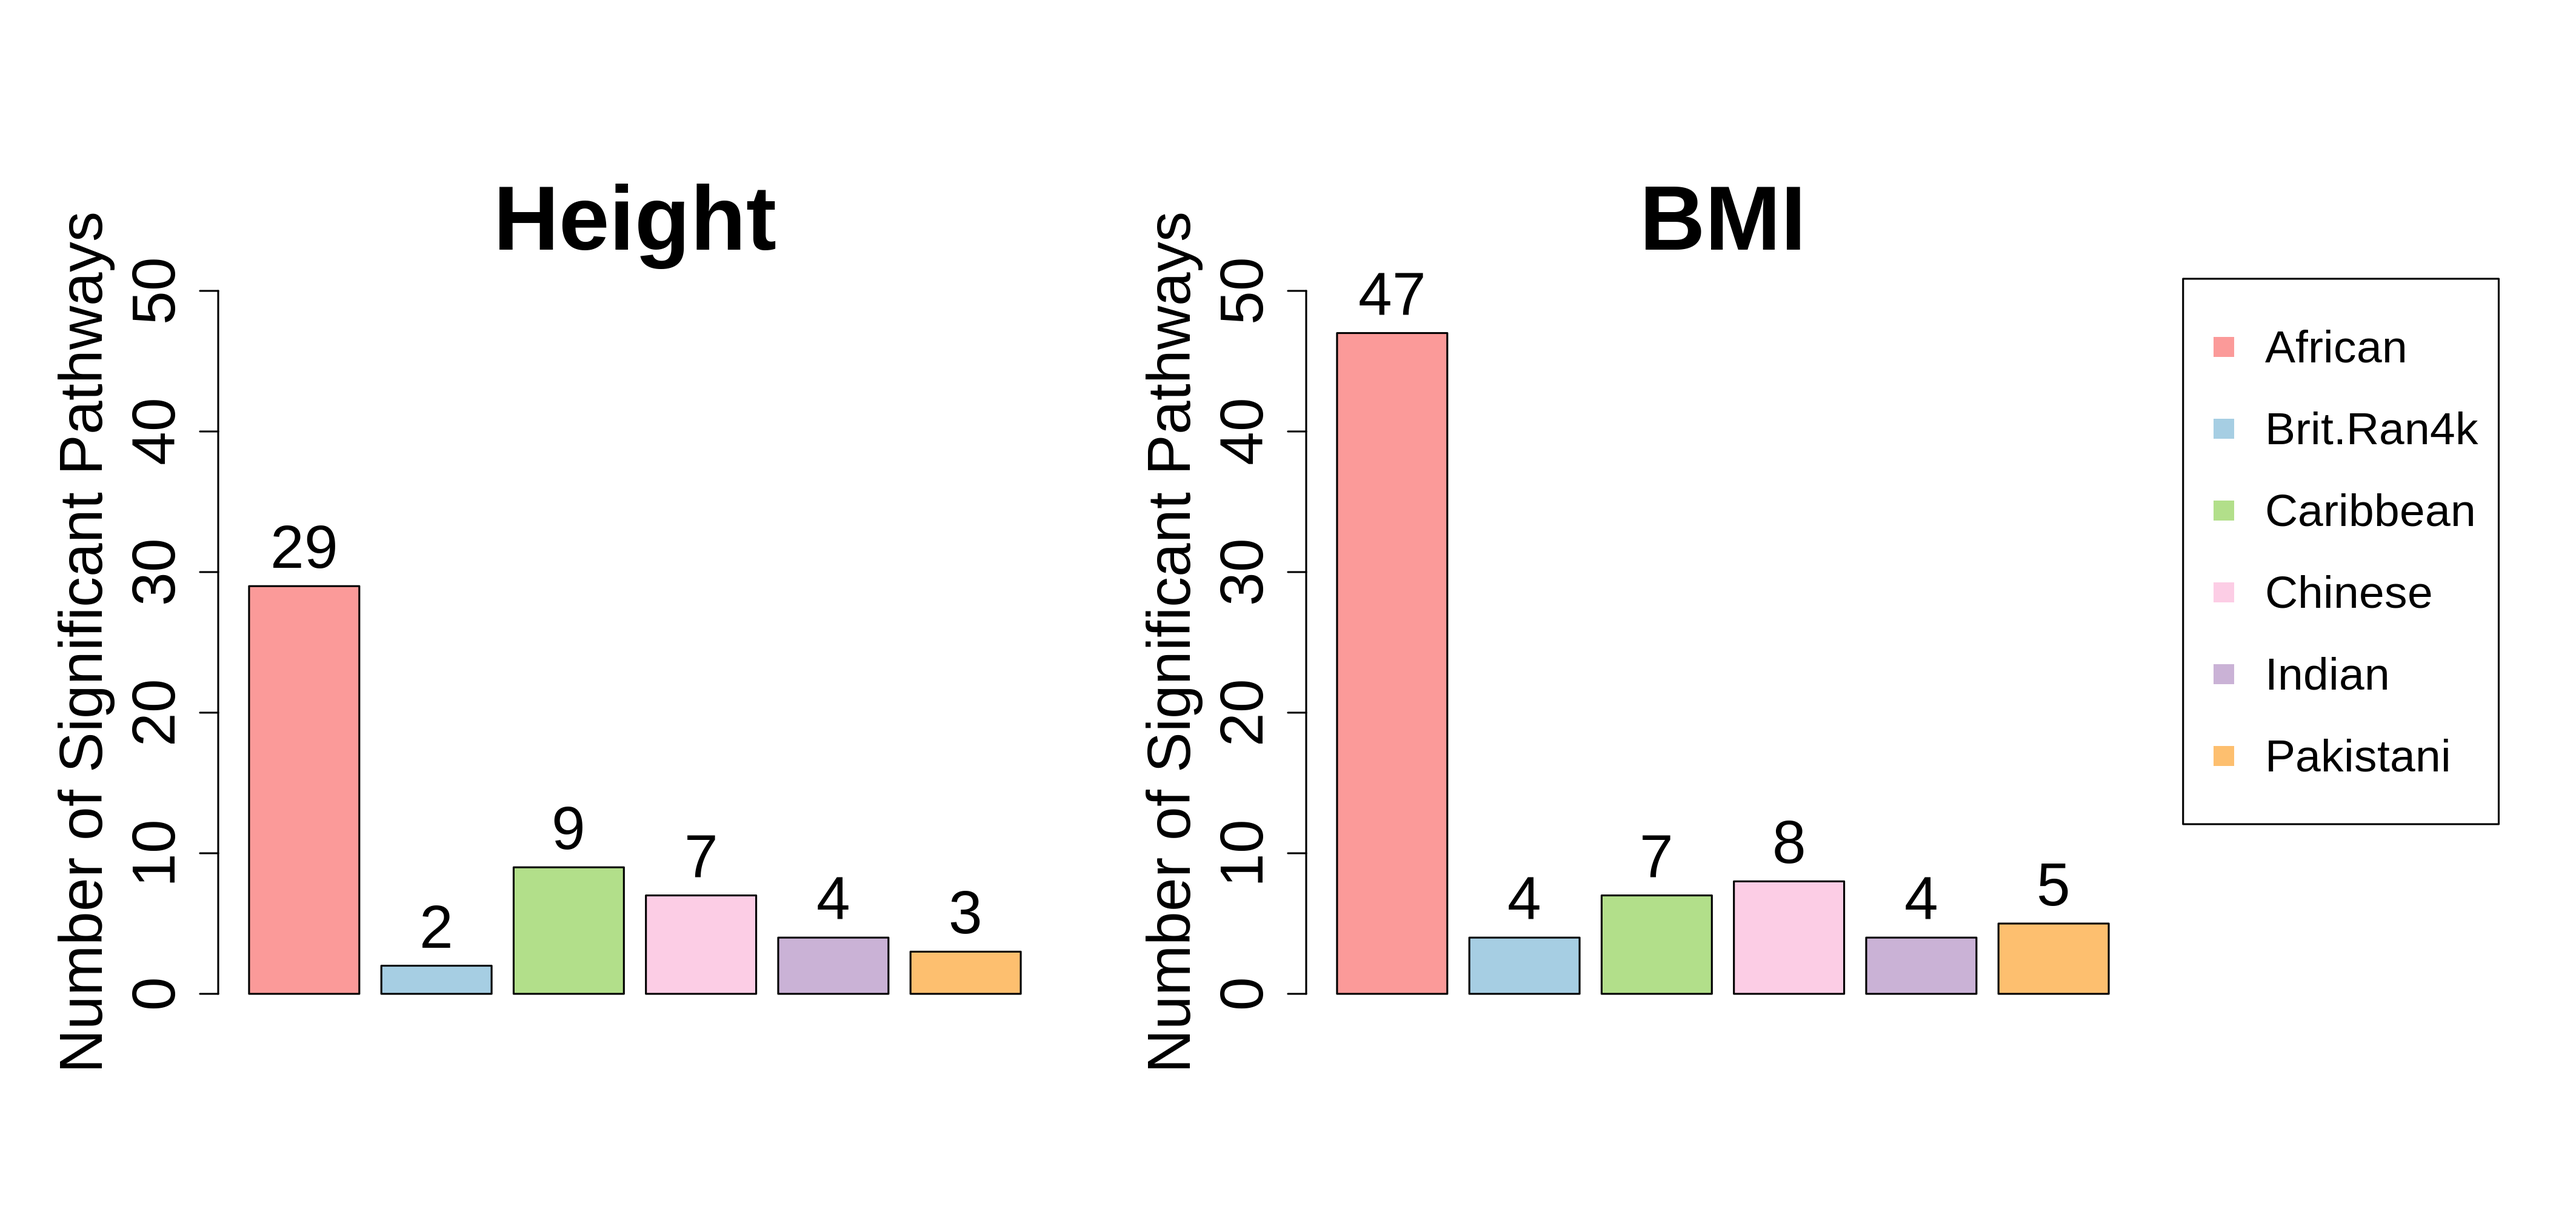
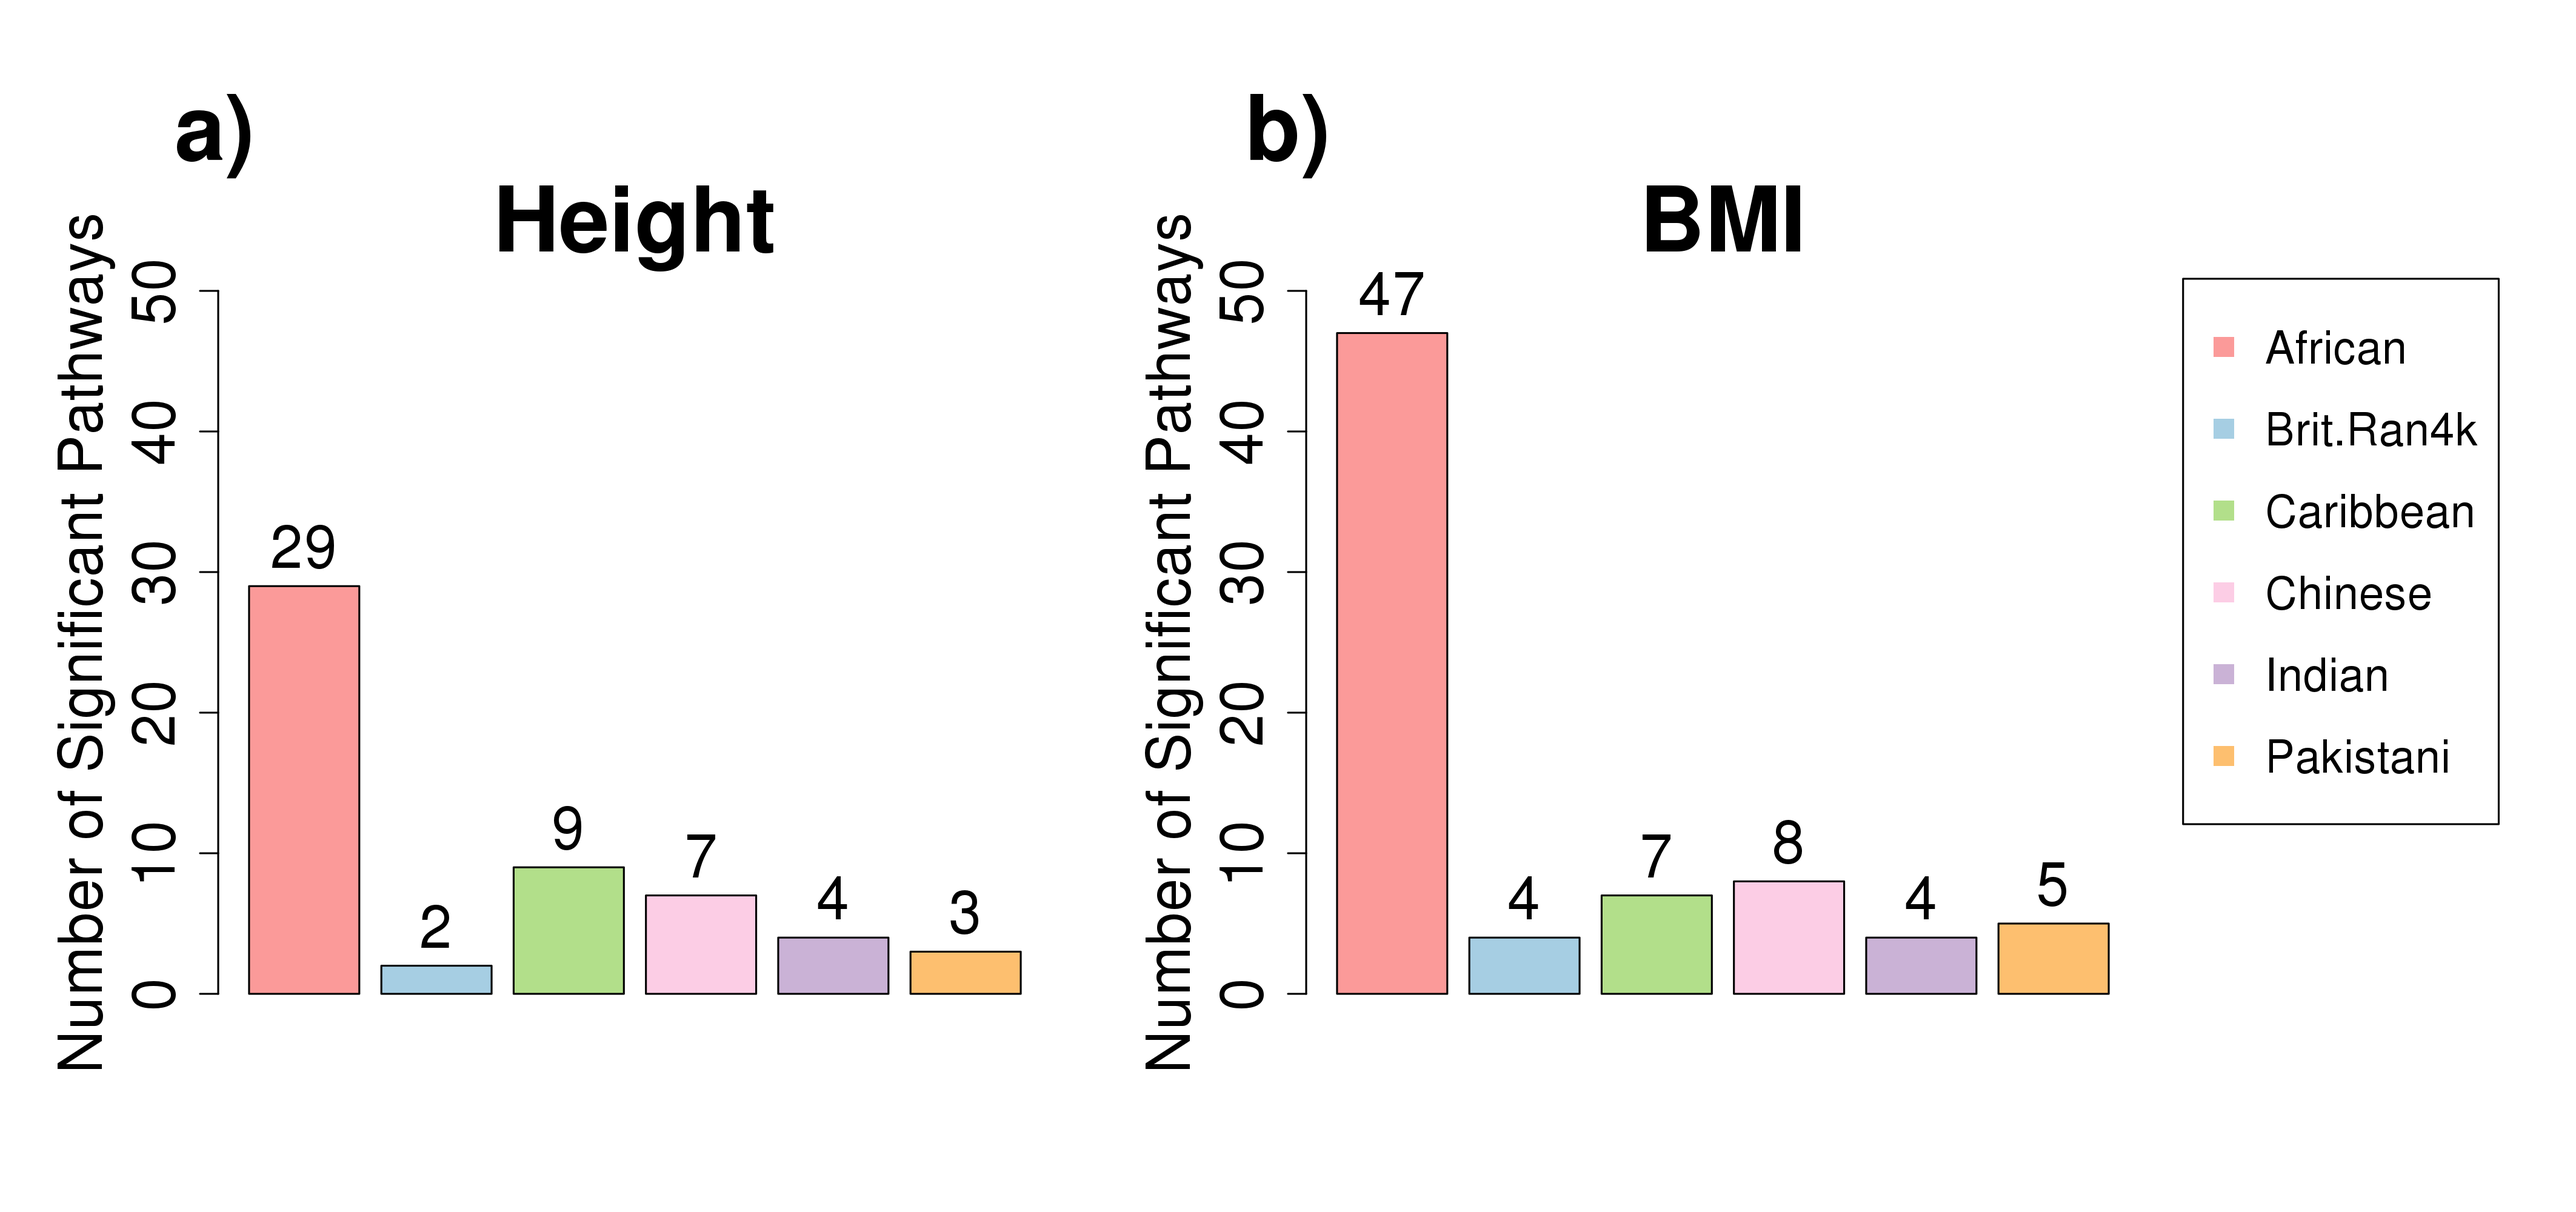
edits (Main and Supplementary Figure sub labels)

diff --git a/Main.tex b/Main.tex
@@ -196,8 +196,8 @@ We apply MAPIT-R to genotype data and the quantitative traits height and body ma
 -prtsctnrchk
 
 -fgrs:a)\&b)thngs
-mn: fgr1, fgr2, fgr3, fgr4, fgr5+6, fgr8, fgr10, fgr11
-suppl: pca1, brplt2, qqplt4, htplt5, brplt9, htplt10a&b, qqplt11
+mn: fgr1, fgr2, fgr3, fgr4, fgr5+6, fgr8, fgr10, fgr11 (whnrdy)
+suppl: pca1, brplt2, qqplt4, htplt5, brplt9, htplt10a\&b, qqplt11
 
 -drop HLA-related pathways for all of these analyses?
 
@@ -248,7 +248,7 @@ The specific pathways with significant marginal epistasis signals in the African
 \centering
 \hspace*{-.9cm}
 \includegraphics[scale=.45]{Images/Main/InterPath_Main_Figure_Barplots_KEGG_vs4.png}
-\caption[TBD]{\textbf{Numbers of KEGG pathways that have significant marginal epistasis, per subgroup}. The figure shows the numbers of genome-wide significant pathways found from running MAPIT-R on height and BMI in the KEGG database within each of the UKB subgroups.  Genome-wide significance was determined by using Bonferroni-corrected $p$-value thresholds based on the number of pathways tested in each database + phenotype + subgroup combination (Supplementary Table \ref{InterPath-Supp-Table-UKBPopStats}). Across all database + phenotype combinations, the African subgroup has the largest numbers of significant pathways. For lists of the specific significant pathways per database + phenotype + subgroup combination, see Supplementary Tables \ref{InterPath-Supp-Table-TopPathways-AllPaths-AllPhenos-Caption}\textcolor{blue}{a-d}. Results from running MAPIT-R with REACTOME database pathways can be found in Supplementary Figure \ref{InterPath-Supp-Figure-Barplots-REACTOME}.}
+\caption[TBD]{\textbf{Numbers of KEGG pathways that have significant marginal epistasis, per subgroup}. The figure shows the numbers of genome-wide significant pathways found from running MAPIT-R on (a) height and (b) BMI in the KEGG database within each of the UKB subgroups.  Genome-wide significance was determined by using Bonferroni-corrected $p$-value thresholds based on the number of pathways tested in each database + phenotype + subgroup combination (Supplementary Table \ref{InterPath-Supp-Table-UKBPopStats}). Across all database + phenotype combinations, the African subgroup has the largest numbers of significant pathways. For lists of the specific significant pathways per database + phenotype + subgroup combination, see Supplementary Tables \ref{InterPath-Supp-Table-TopPathways-AllPaths-AllPhenos-Caption}\textcolor{blue}{a-d}. Results from running MAPIT-R with REACTOME database pathways can be found in Supplementary Figure \ref{InterPath-Supp-Figure-Barplots-REACTOME}.}
 \label{InterPath-Main-Figure-Barplots-KEGG}
 \end{figure}
 
